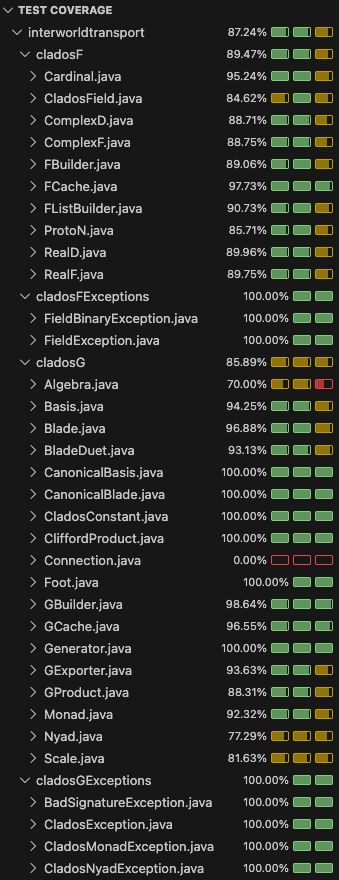
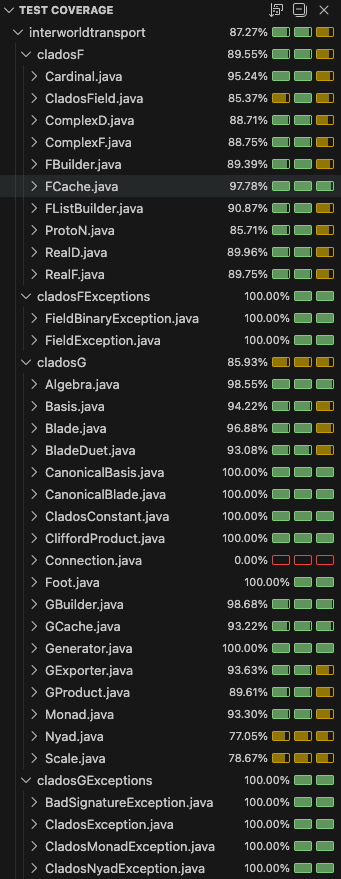
cleanup

diff --git a/src/test/java/org/interworldtransport/cladosG/MultivectorUnitTests.java b/src/test/java/org/interworldtransport/cladosG/MultivectorUnitTests.java
@@ -6,14 +6,7 @@ import static org.junit.jupiter.api.Assertions.assertInstanceOf;
 import static org.junit.jupiter.api.Assertions.assertThrows;
 import static org.junit.jupiter.api.Assertions.assertTrue;
 
-import org.interworldtransport.cladosF.Cardinal;
-import org.interworldtransport.cladosF.CladosField;
-import org.interworldtransport.cladosF.ComplexD;
-import org.interworldtransport.cladosF.ComplexF;
-import org.interworldtransport.cladosF.FBuilder;
-import org.interworldtransport.cladosF.FListBuilder;
-import org.interworldtransport.cladosF.RealD;
-import org.interworldtransport.cladosF.RealF;
+import org.interworldtransport.cladosF.*;
 import org.interworldtransport.cladosFExceptions.FieldException;
 import org.interworldtransport.cladosGExceptions.BadSignatureException;
 import org.interworldtransport.cladosGExceptions.CladosException;
